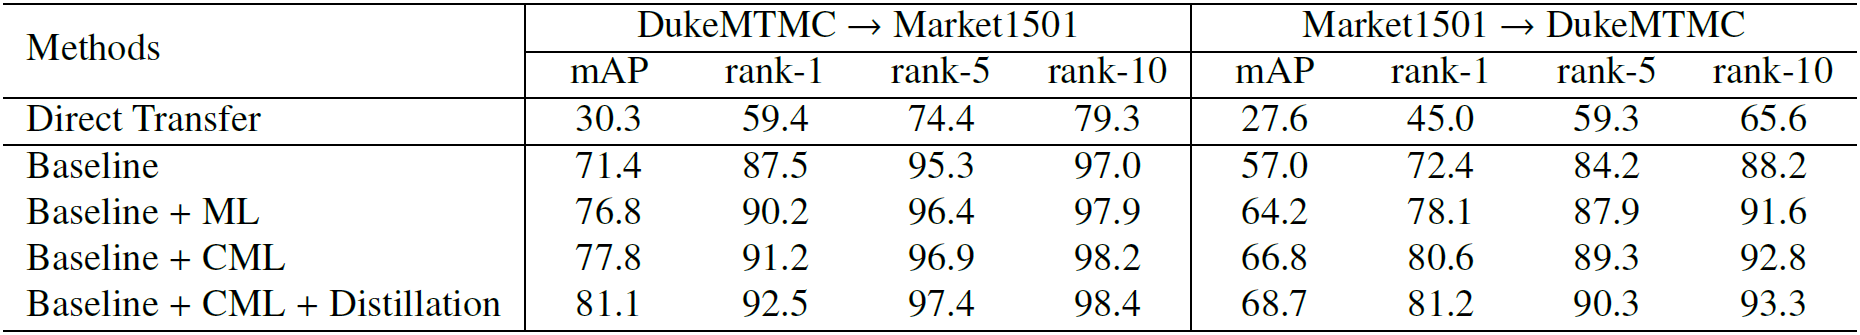
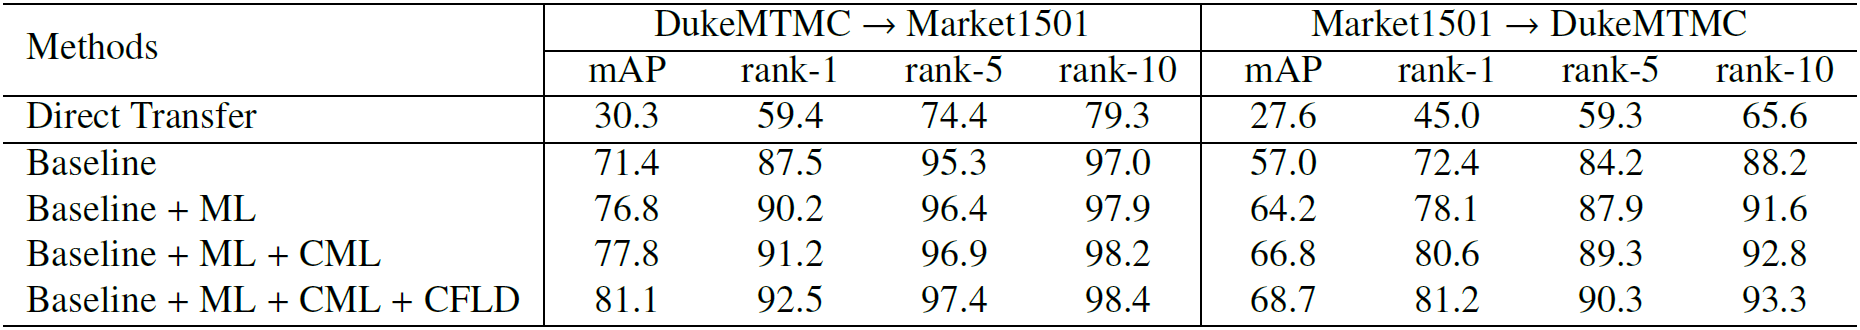
Update README.md

diff --git a/README.md b/README.md
@@ -1,10 +1,13 @@
 # Contrastive Mutual Learning Distillation (CMLD)
 
+This repository presents the UDA person re-ID training method ***Contrastive Mutual Learning Distillation (CMLD)***, which is an improved method based on [MMT](https://arxiv.org/abs/2001.01526). Use the EMA models to generate more stable soft pseudo labels which are used to supervise peer models, and use mutual learning training manner to improve model performance. In addition, the contrastive learning method ***CML*** is used to improve the feature space distribution and make the output features of the model more discriminative, thereby improving the model performance. In order to further improve the performance of the model, the knowledge distillation method ***CFLD*** is used to transfer the prediction probability and feature representation knowledge of the teacher model to the student model.
+
 <div align="center">
 <img src="imgs/cmld.png" width="100%" alt="cmld.png" />
 </div>
 
 ## Table of Contents
+
 - [Getting Started](#getting-started)
   - [Prerequisites](#prerequisites)
   - [Installation](#installation)
@@ -13,13 +16,17 @@
 - [Usage](#usage)
   - [Training](#training)
   - [Test](#test)
-- [Effectiveness Experiment Analysis](#effectiveness-experiment-analysis)
+- [Effectiveness Analysis Experiments](#effectiveness-analysis-experiments)
+  - [Ablation study](#ablation-study)
+  - [t-SNE visualization](#t-sne-visualization)
+  - [Rank-5 visualization](#rank-5-visualization)
 - [License](#license)
 - [Citation](#citation)
 - [Acknowledgments](#acknowledgments)
 
 ## Getting Started
 ### Prerequisites
+
 - Python 3.7.11 conda environment
 - PyTorch 1.8.2 LTS with CUDA 11.1
 
@@ -33,7 +40,8 @@ pip install -r requirements.txt
 
 ### Datasets preparation
 
-Download datasets Market1501, DukeMTMC-ReID and MSMT17 and arrange the directory paths as follows.
+Download datasets [DukeMTMC-ReID](https://arxiv.org/abs/1609.01775), [Market1501](https://www.cv-foundation.org/openaccess/content_iccv_2015/papers/Zheng_Scalable_Person_Re-Identification_ICCV_2015_paper.pdf) and [MSMT17](https://arxiv.org/abs/1711.08565). Moreover, arrange the directory paths as follows:
+
 ```
 /USER-DEFINED-PATH/Dataset/
                       ├── dukemtmc/
@@ -46,15 +54,17 @@ Download datasets Market1501, DukeMTMC-ReID and MSMT17 and arrange the directory
 
 ### ImageNet pre-trained weights preparation
 
-Download the IBN-ResNet ImageNet pre-trained weights and arrange the model paths as follows.
+Download the [ImageNet](https://image-net.org/) pre-trained weights of [IBN-ResNet](https://arxiv.org/abs/1807.09441) model from this [link](https://drive.google.com/drive/folders/1thS2B8UOSBi_cJX6zRy6YYRwz_nVFI_S) and arrange the model paths as follows:
+
 ```
-CMLD/logs
-      └── pretrained
+CMLD/logs/
+      └── pretrained/
               ├── resnet50_ibn_a.pth.tar
               └── resnet101_ibn_a.pth.tar
 ```
 
-Download the OSNet-AIN and OSNet ImageNet pre-trained weights for [deep-person-reid](https://github.com/ChienHsuan/deep-person-reid), and arrange the model paths in the following form.
+Download the ImageNet pre-trained weights of [OSNet-AIN](https://arxiv.org/abs/1910.06827) and [OSNet](https://arxiv.org/abs/1905.00953) models from this [link](https://kaiyangzhou.github.io/deep-person-reid/MODEL_ZOO.html#imagenet-pretrained-models), and these ImageNet pre-trained models are used for [deep-person-reid](https://github.com/ChienHsuan/deep-person-reid). Moreover, arrange the model paths as follows:
+
 ```
 deep-person-reid/imagenet_pretrained_models/
                               ├── osnet_ain_x0_5_imagenet.pth
@@ -65,21 +75,24 @@ deep-person-reid/imagenet_pretrained_models/
 
 ## Usage
 ### Training
-#### Stage l: Pre-training on the source domain
 
-Pre-train ResNet and IBN-ResNet models on source domain, execute the command:
+The whole training process is divided into two stages: stage l and stage ll. In stage l, use ImageNet pre-trained models for pre-training on the source domain, so that the models can have basic person recognition ability. In stage ll, use the source domain pre-trained models to perform unsupervised learning on the target domain, and train the models by the proposed UDA training method ***CMLD***. Therefore, the source pre-trained models can be adapted to the target domain. The CMLD training architecture includes Baseline, ML, CML, and CFLD methods. Moreover, in order to verify the effectiveness of the CMLD architecture, the experiments with other related methods are also conducted to compare the pros and cons of the methods, including the contrastive learning and knowledge distillation methods.
+
+#### Stage l: Source domain pre-training
+
+Use [ResNet](https://arxiv.org/abs/1512.03385) and IBN-ResNet models for pre-training on the source domain, execute the command:
 
 ```bash
-bash pretrain.sh
+bash scripts\pretrain.sh
 ```
 
-And use [deep-person-reid](https://github.com/ChienHsuan/deep-person-reid) to pre-train OSNet and OSNet-AIN models on source domain, execute the command:
+OSNet and OSNet-AIN models use [deep-person-reid](https://github.com/ChienHsuan/deep-person-reid) for source domain pre-training, execute the command:
 
 ```bash
 bash train.sh
 ```
 
-Change the dataset and model related parameters in training scripts as required.
+Change the dataset and model related arguments in training scripts as required.
 
 Then arrange the paths of each source domain pre-training model in the following form:
 
@@ -106,13 +119,13 @@ Then arrange the paths of each source domain pre-training model in the following
                       │          └── market1501/...
                       ├── osnet_ain_x1_0/...
                       ├── osnet_x0_5/...
-                      ├── osnet_x1_0/...
+                      └── osnet_x1_0/...
 ```
 
 #### Stage ll: UDA training
 ##### 1. Baseline
 
-Use only a single model for general cluster-based UDA training on the target domain.
+Use only a single model for general clustering-based UDA training on the target domain.
 
 ```bash
 bash scripts\cluster_base.sh
@@ -120,7 +133,7 @@ bash scripts\cluster_base.sh
 
 ##### 2. ML
 
-Use EMA models to generate more stable soft pseudo labels to supervise peer models, and use mutual learning to improve the performance of the model.
+Use EMA models to generate more stable soft pseudo labels to supervise peer models, and use mutual learning method for training.
 
 ```bash
 bash scripts\mutual_learning.sh
@@ -128,11 +141,11 @@ bash scripts\mutual_learning.sh
 
 ##### 3. CML
 
-Based on the ML method, the contrastive mutual learning method is used to improve the output feature distribution of the model. The objective function of contrastive learning is shown in the figure below.
+Use contrastive mutual learning (CML) methods based on ML methods to improve the output feature space distribution of the model. The objective function of contrastive learning is as follows.
 
-<div align="center">
-<img src="imgs/cntr_loss.png" width="50%" alt="cntr_loss.png" />
-</div>
+$$
+\mathcal L_{cont}(\theta) = - \frac{1}{PN_t} \sum_{j=1}^{P} \sum_{i=1}^{N_t} \left(\log \frac{S_{i,j}^+(\theta)}{S_{i,j}^+(\theta) + S_{i}^-(\theta)}\right)
+$$
 
 ```bash
 bash scripts\contrastive_ML.sh
@@ -140,7 +153,7 @@ bash scripts\contrastive_ML.sh
 
 ##### 4. CFLD
 
-Use the contrastive feature learning distillation method to transfer the prediction probability and feature representation knowledge of the teacher model to the student model to improve the performance of the model.
+Transfer the prediction probability and feature representation knowledge of the teacher model to the student model by Using the contrastive feature learning distillation (CFLD) method. Therefore, the student model has much lower model complexity and can achieve similar performance to the teacher model.
 
 ```bash
 bash scripts\contrastive_ML_distillation.sh
@@ -148,52 +161,58 @@ bash scripts\contrastive_ML_distillation.sh
 
 ##### Further improvement
 
-Using the improved contrastive learning objective function instead, as shown in the figure below, will enable the model to achieve better performance.
+Instead, use the improved contrastive learning objective function as follows, which will enable the model to achieve better performance.
 
-<div align="center">
-<img src="imgs/imp_cntr_loss.png" width="100%" alt="imp_cntr_loss.png" />
-</div>
+$$
+\mathcal L_{cont}(\theta) = - \frac{1}{PN_t} \sum_{j=1}^{P} \sum_{i=1}^{N_t} \left(\log \frac{S_{i,j}^+(\theta)}{S_{i,j}^+(\theta) + S_{i}^-(\theta)}\right) - \frac{1}{NN_t} \sum_{j=1}^{N} \sum_{i=1}^{N_t} \left(\log \left(1 - \frac{S_{i,j}^-(\theta)}{S_{i}^+(\theta) + S_{i,j}^-(\theta)}\right) \right)
+$$
 
 ```bash
 bash scripts\imp_contrastive_ML_distillation.sh
 ```
 
-##### Method comparison
-###### 1. Contrastive learning method comparison
+##### Method comparisons
+###### 1. Contrastive learning method comparisons
 
-The methods are `"moco"` and `"cap"`, which can be changed with the `--cl-method` parameter.
+Contrastive learning comparison methods are [MoCo](https://arxiv.org/abs/1911.05722) and [CAP](https://arxiv.org/abs/2012.10674), which can be changed with the `--cl-method` argument (`"moco"` and `"cap"`).
 
 ```bash
 bash scripts\cl_comparison.sh
 ```
 
-###### 2. Knowledge distillation method comparison
+###### 2. Knowledge distillation method comparisons
 
-The methods are `"kd"` and `"crd"`, which can be changed with the `--kd-method` parameter.
+Knowledge distillation comparison methods are [KD](https://arxiv.org/abs/1503.02531) and [CRD](https://arxiv.org/abs/1910.10699), which can be changed with the `--kd-method` argument (`"kd"` and `"crd"`).
 
 ```bash
 bash scripts\kd_comparison.sh
 ```
 
-Change the dataset and model related parameters in training scripts as required.
+Change the dataset and model related arguments in training scripts as required.
 
 ### Test
 
-The identification accuracy of the model is scored by evaluation metrics **mean Average Precision (mAP)** and **Cumulative Matching Characteristics (CMC)**.
+Use evaluation metrics **mean Average Precision (mAP)** and **Cumulative Matching Characteristics (CMC)** to evaluate the identification accuracy of person re-ID models.
 
 ```bash
 bash scripts\test_model.sh
 ```
 
-Change the dataset and model related parameters in test scripts as required.
+Change the dataset and model related arguments in test scripts as required.
 
-## Effectiveness Experiment Analysis
+## Effectiveness Analysis Experiments
+
+The following are experiment results using the ResNet-50 model.
+
 ### Ablation study
+
 <div align="center">
 <img src="imgs/resnet50_ablation_study.png" width="90%" alt="resnet50_ablation_study.png" />
 </div>
 
 ### t-SNE visualization
+
+Dukemtmc &rarr; Market1501 experiment results:
 
 <div align="center">
 <img src="imgs/d2m_baseline_ml.png" width="70%" alt="d2m_baseline_ml.png" />
@@ -204,6 +223,9 @@ Change the dataset and model related parameters in test scripts as required.
 </div>
 
 ### Rank-5 visualization
+
+Dukemtmc &rarr; Market1501 experiment results:
+
 <div align="center">
 <img src="imgs/d2m_rank_5.png" width="70%" alt="d2m_rank_5.png" />
 </div>
@@ -212,7 +234,7 @@ For more details, please refer to [*Person re-identification and tracking for mu
 
 ## License
 
-The MIT License (MIT)
+The MIT License (MIT)  
 Copyright (c) 2022 Chien-Hsuan Yen
 
 ## Citation
@@ -231,8 +253,8 @@ Copyright (c) 2022 Chien-Hsuan Yen
 
 ## Acknowledgments
 
-[MMT](https://github.com/yxgeee/MMT)
-[deep-person-reid](https://github.com/KaiyangZhou/deep-person-reid)
-[MoCo](https://github.com/facebookresearch/moco)
-[CAP](https://github.com/Terminator8758/CAP-master)
-[CRD](https://github.com/HobbitLong/RepDistiller)
+[MMT](https://github.com/yxgeee/MMT)  
+[deep-person-reid](https://github.com/KaiyangZhou/deep-person-reid)  
+[MoCo](https://github.com/facebookresearch/moco)  
+[CAP](https://github.com/Terminator8758/CAP-master)  
+[CRD](https://github.com/HobbitLong/RepDistiller)  
